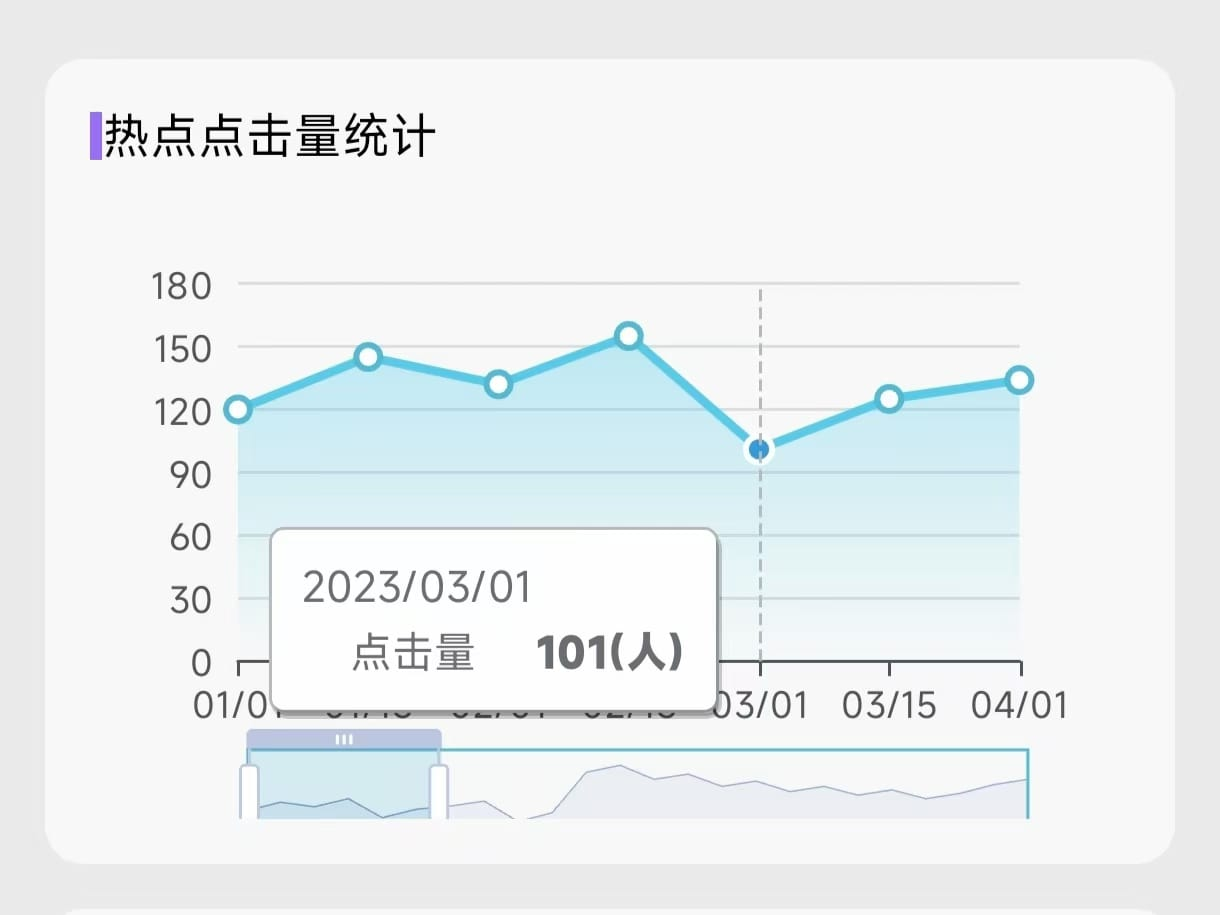
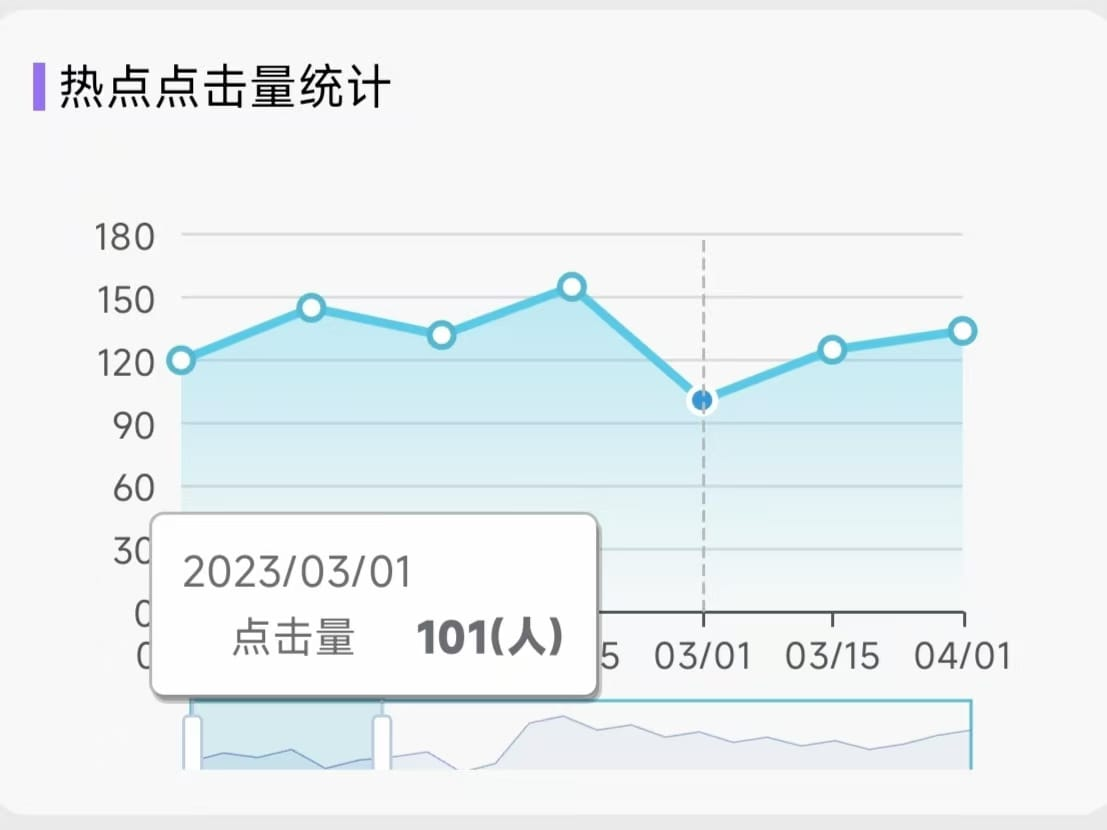
#ui小调整

Changed region(s): [[0.0921, 0.2711, 0.9214, 0.9337], [0.0307, 0.0602, 0.3686, 0.1807]]

diff --git a/src/pages/tabbar/me/me.vue b/src/pages/tabbar/me/me.vue
@@ -26,14 +26,14 @@ onShow(async () => {
     <view class="p-sm">
       <view class="bg-jun-bg bg-op-70 rd-xl p-sm mt-sm">
         <view>
-          <view class="h-1em w-1 bg-jun-primary inline-block v--10%"></view>
+          <view class="h-1em w-1 bg-jun-primary inline-block mr-1 v--10%"></view>
           热点点击量统计
         </view>
         <hotspotClickStatistics />
       </view>
       <view class="bg-jun-bg bg-op-70 rd-xl p-sm mt-sm">
         <view>
-          <view class="h-1em w-1 bg-jun-primary inline-block v--10%"></view>
+          <view class="h-1em w-1 bg-jun-primary inline-block mr-1 v--10%"></view>
           访问量统计
         </view>
         <lookStatistics />

diff --git a/src/pages/tabbar/home/home.vue b/src/pages/tabbar/home/home.vue
@@ -93,6 +93,7 @@ function onClickSwiper({
     <view class="mt-sm">
       <wd-swiper
         @click="onClickSwiper"
+        height="230"
         class="mt-1"
         value-key="url"
         textKey="title"
